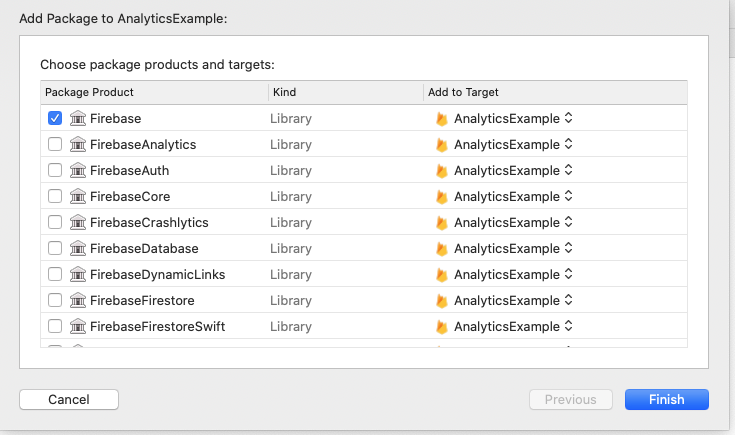
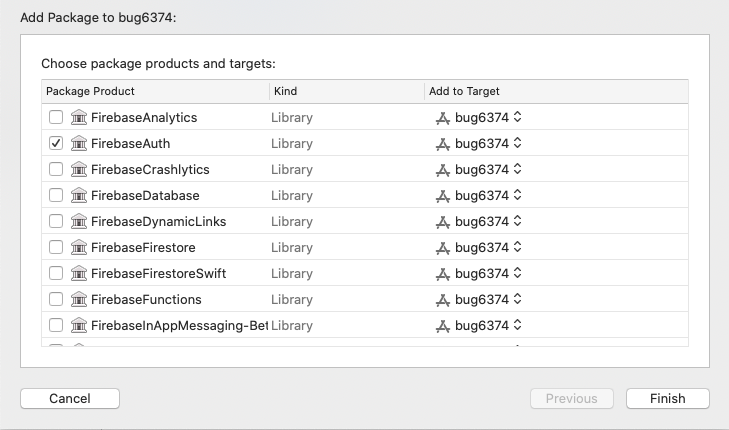
Make Firebase and FirebaseCore implicit for SPM

diff --git a/SwiftPackageManager.md b/SwiftPackageManager.md
@@ -36,8 +36,8 @@ distribution.
 
 <img src="docs/resources/SPMSelect.png">
 
-Choose the Firebase product and any additional products that you want installed
-in your app.
+Choose the Firebase products that you want installed in your app. (Note, before
+6.32-spm-beta, the Firebase product should also be selected.)
 
 <img src="docs/resources/SPMProducts.png">
 

diff --git a/FirebaseCore/CHANGELOG.md b/FirebaseCore/CHANGELOG.md
@@ -1,3 +1,8 @@
+# Firebase 6.32.0
+- [changed] Swift Package Manager - It's no longer necessary to select the Firebase or
+  FirebaseCore products. Their build targets are implicitly selected when choosing any other
+  Firebase product.
+
 # Firebase 6.31.1
 - [fixed] Sporadic missing FirebaseApp symbol build issue introduced in Firebase 6.28.0. (#6341)
 
